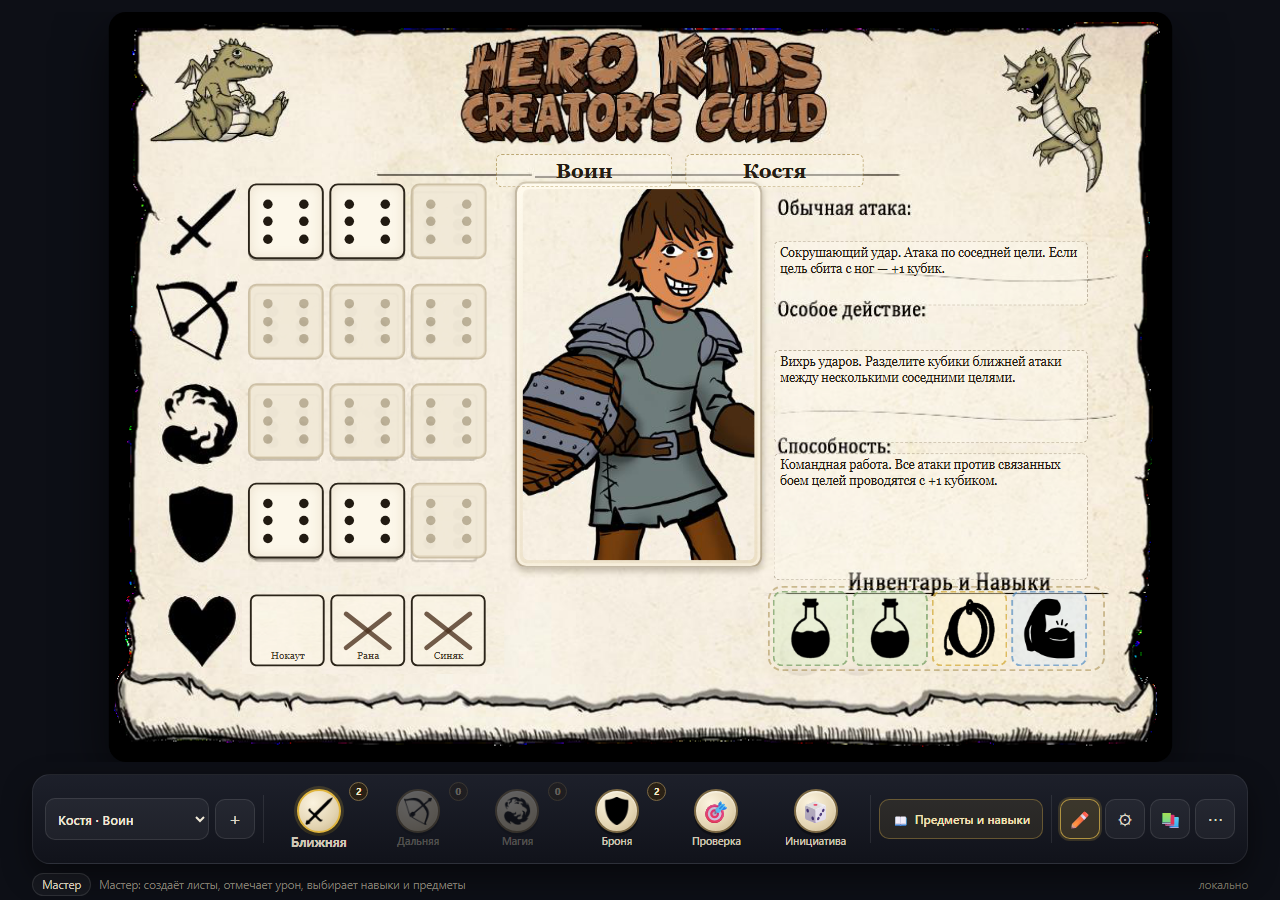
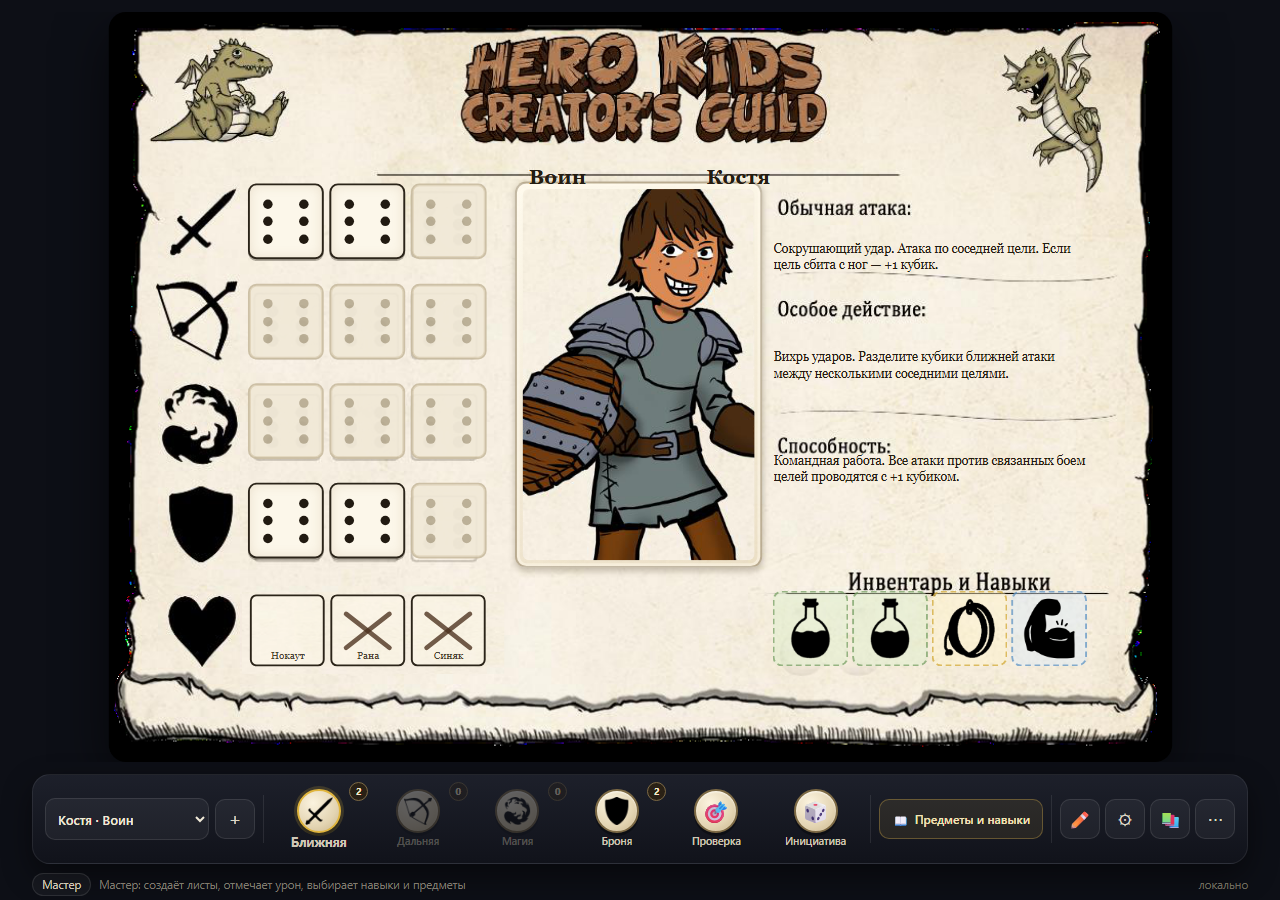
Hero Kids: выровнять класс и имя по линиям карточки

diff --git a/desktop-host/extensions/herokids/styles.css b/desktop-host/extensions/herokids/styles.css
@@ -1,4 +1,4 @@
-/* Hero Kids — лист персонажа и карточки снаряжения */
+/* Hero Kids — лист персонажа и карточки снаряжения */
 
 :root {
   --ink: #241d12;
@@ -77,7 +77,7 @@ body:not(.is-gm) .gmOnly { display: none !important; }
 .name {
   position: absolute;
   left: 36.8%;
-  top: 19.0%;
+  top: 19.9%;
   width: 36%;
   height: 4.4%;
   border: 0;
@@ -90,8 +90,8 @@ body:not(.is-gm) .gmOnly { display: none !important; }
   text-align: center;
   letter-spacing: 0.2px;
 }
-.class-name { left: 36.4%; width: 16.6%; }
-.hero-name { left: 54.2%; width: 16.8%; }
+.class-name { left: 34.0%; width: 16.4%; }
+.hero-name { left: 51.0%; width: 16.4%; }
 .name[readonly] { cursor: default; }
 .name:not([readonly]) {
   background: transparent;
@@ -101,7 +101,7 @@ body:not(.is-gm) .gmOnly { display: none !important; }
   z-index: 12;
   pointer-events: auto;
   height: 4.4%;
-  top: 19.0%;
+  top: 19.9%;
 }
 .name:not([readonly]):hover {
   border-color: rgba(138, 106, 26, 0.45);
@@ -1343,6 +1343,7 @@ body:not(.is-gm) .gmOnly { display: none !important; }
   .card-preview-wrap { width: 340px; height: 477px; }
   .item-card { transform: scale(0.805); }
 }
+
 
 
 
